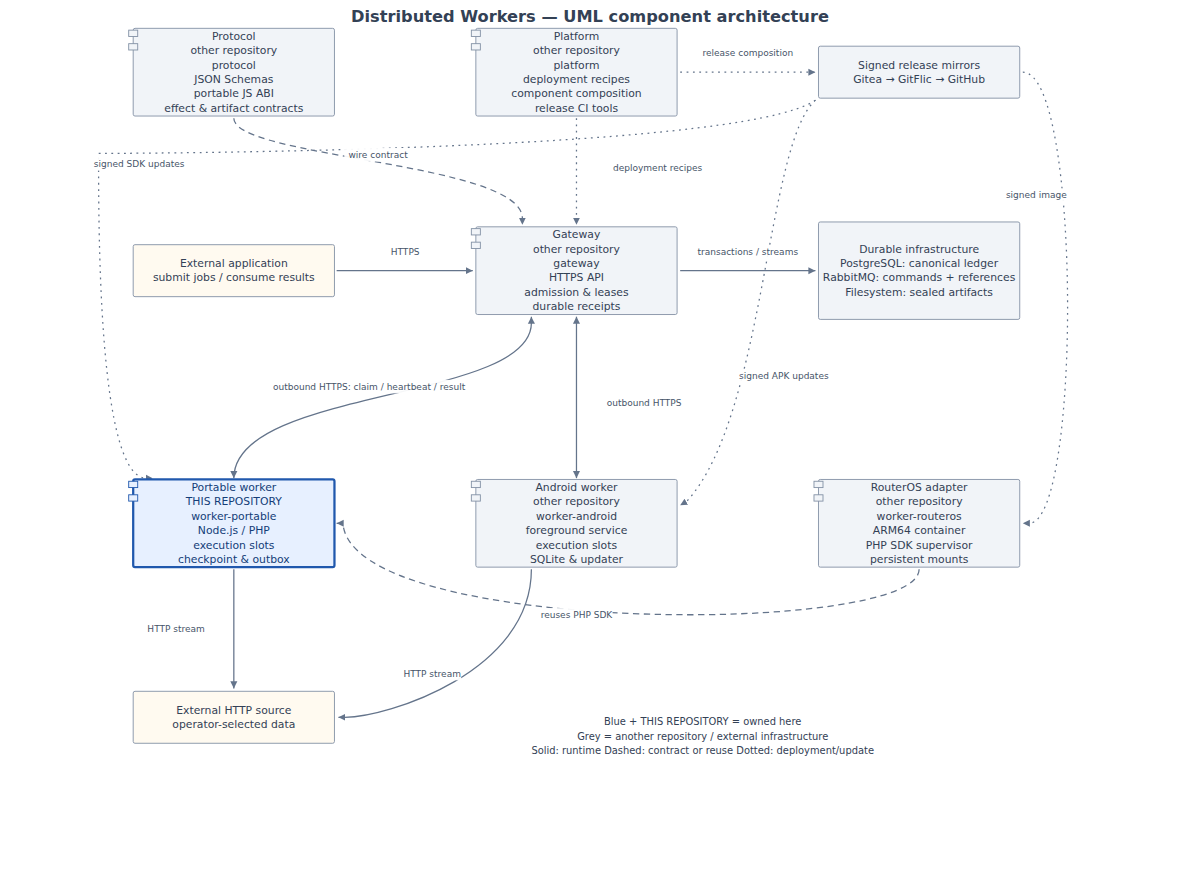
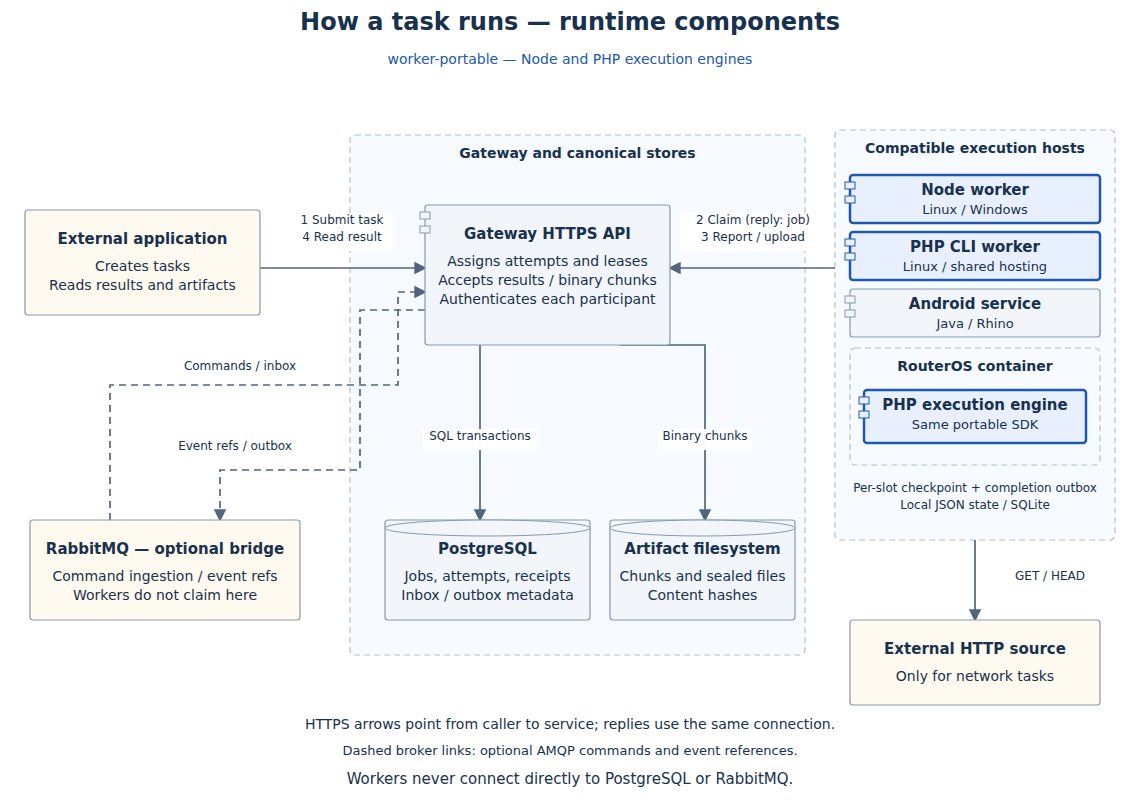
Separate runtime task flow from UML repository dependencies
Show HTTPS pull, PostgreSQL scheduling, optional AMQP and binary storage separately from source/release dependencies. Represent RouterOS as a container with a local PHP engine, identify non-runtime packages, and validate routes and ownership.

diff --git a/README.md b/README.md
@@ -3,17 +3,30 @@
 Node.js 24+ runs on Linux, Windows and supported CPU architectures. PHP 8.2+ is a CLI/cron adapter for shared hosting. Both implement `sha256`, `http.request` and streamed binary artifacts. The common text operation uses NFC and Android’s exact whitespace/space-character union; U+0085/U+FEFF remain literal. Both compute operations require a string `input.text`. Node implements `text.normalize`; PHP advertises it only when `intl` is installed. PHP does not advertise JavaScript.
 
 <!-- fleet-architecture:start -->
-## Architecture and repository boundary
+## Architecture
 
-![Shared UML component architecture; worker-portable is highlighted](docs/architecture.png)
+### How a task runs
 
-All six repositories show the same system. **Blue and “THIS REPOSITORY” identify the component owned here**; grey boxes show sibling repositories or external infrastructure. Solid arrows carry runtime traffic, dashed arrows show contracts or reuse, and dotted arrows show deployment or updates. The protocol applies to the gateway and both execution SDKs; deployment arrows show the principal composition entry points.
+![Runtime task flow, API callers and durable stores](docs/architecture.png)
+
+1. An external application submits a task to the gateway API.
+2. A compatible worker claims it; the API assigns a fenced attempt in PostgreSQL and returns the task. The worker renews its lease while running.
+3. The worker uploads binary output and submits its result. Gateway acknowledgements confirm persisted state.
+4. The application reads the canonical result and downloads referenced artifacts.
+
+Workers initiate HTTPS connections. PostgreSQL schedules claims and stores canonical execution state. RabbitMQ is an optional command/event bridge; workers do not pull their tasks from it. The four adapter boxes show implementation types, not a machine count.
+
+### Where this repository fits
+
+![UML package dependencies; this repository is blue](docs/repositories.png)
+
+The **blue package labelled THIS REPOSITORY** is owned here. Dashed arrows point from a package to the contract, SDK or release bundle it uses; they do not represent network calls. `protocol` and `platform` are source/tooling packages, not running services. RouterOS packages the PHP SDK inside its own container rather than calling a separate PHP service.
 
 This repository owns the Node.js and PHP execution adapters: platform operations, resource admission, independent slot state, checkpoints, completion outboxes, binary streams and signed SDK updates. The gateway owns the canonical job ledger.
 
 Implementation: [Node adapter](node/worker.mjs), [PHP adapter](php/worker.php), [Node admission](node/concurrency.mjs), [PHP admission](php/concurrency.php).
 
-[SVG source](docs/architecture.svg) · [Editable DOT source](docs/architecture.dot). The common model and Python-only SVG renderer live in [platform](https://gitflic.ru/project/distributed-workers/platform). From its checkout, `python3 -B tools/render-architecture.py --workspace ../.. --png` regenerates every ownership view in a workspace containing `repos/<component>`. PNG previews work on forges that serve SVG as text. SVG generation uses Python alone; PNG rendering uses a local Chromium browser. No diagram service or production configuration is needed.
+Editable sources: [runtime SVG](docs/architecture.svg), [runtime DOT](docs/architecture.dot), [repository SVG](docs/repositories.svg), [repository DOT](docs/repositories.dot). Both view families come from the shared model in [platform](https://gitflic.ru/project/distributed-workers/platform); each repository changes only the ownership highlight. PNG previews display on all three forges. Regenerate with `python3 -B tools/render-architecture.py --workspace ../.. --png` from the platform checkout. SVG needs Python alone; PNG needs local Chromium and Pillow.
 <!-- fleet-architecture:end -->
 
 Use one backend and a private state directory per installation. A device/enrollment token is enough for a new installation: the first connection assigns a stable server ID and durably saves it before any heartbeat, claim or completion. Existing device tokens retain their IDs; an existing `worker_id` remains supported. Retrying a connection with the same token recovers the same identity after a lost response. Changing identity while local work is pending is refused and preserves its state. Keep the device token and all deployment addresses in an owner-readable configuration outside this repository.
